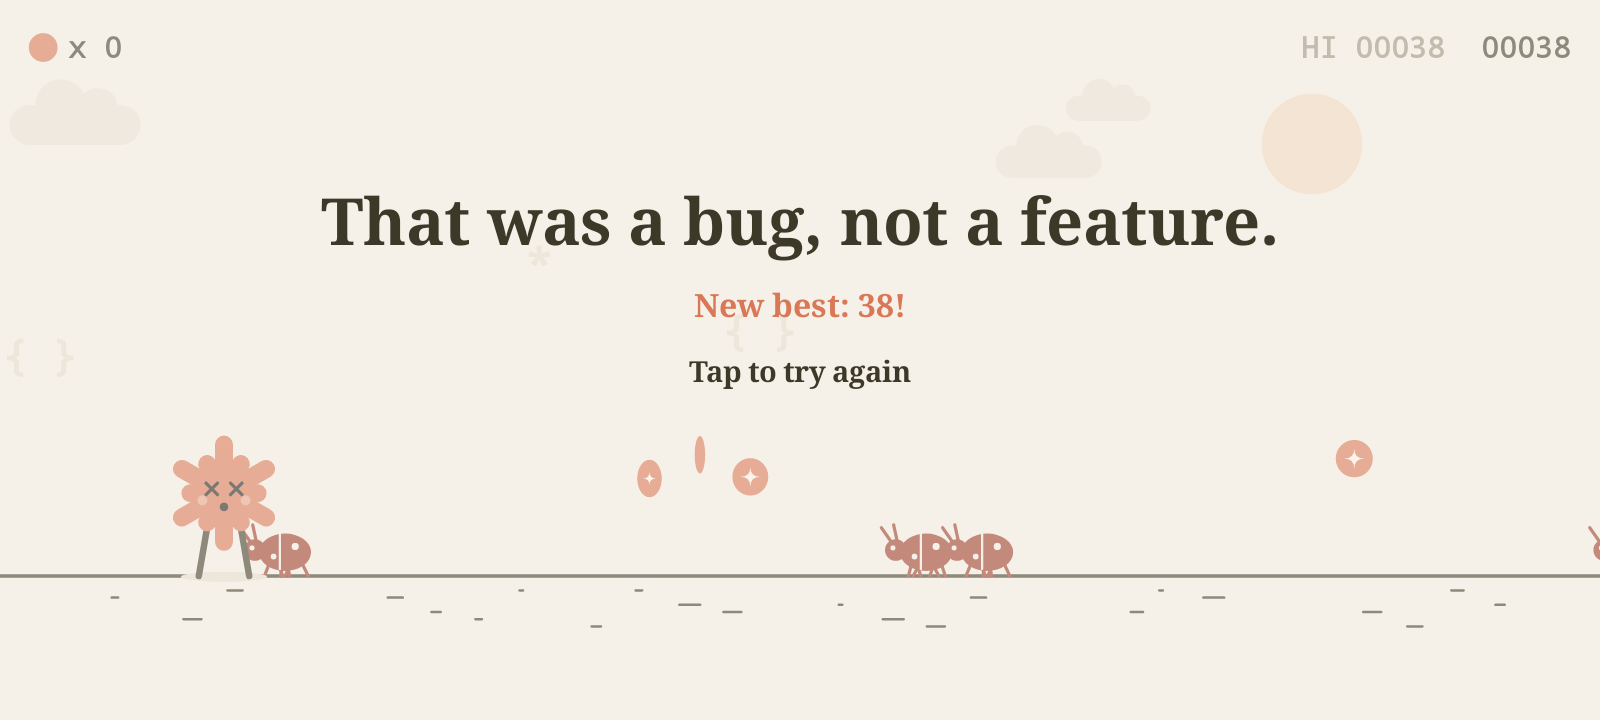
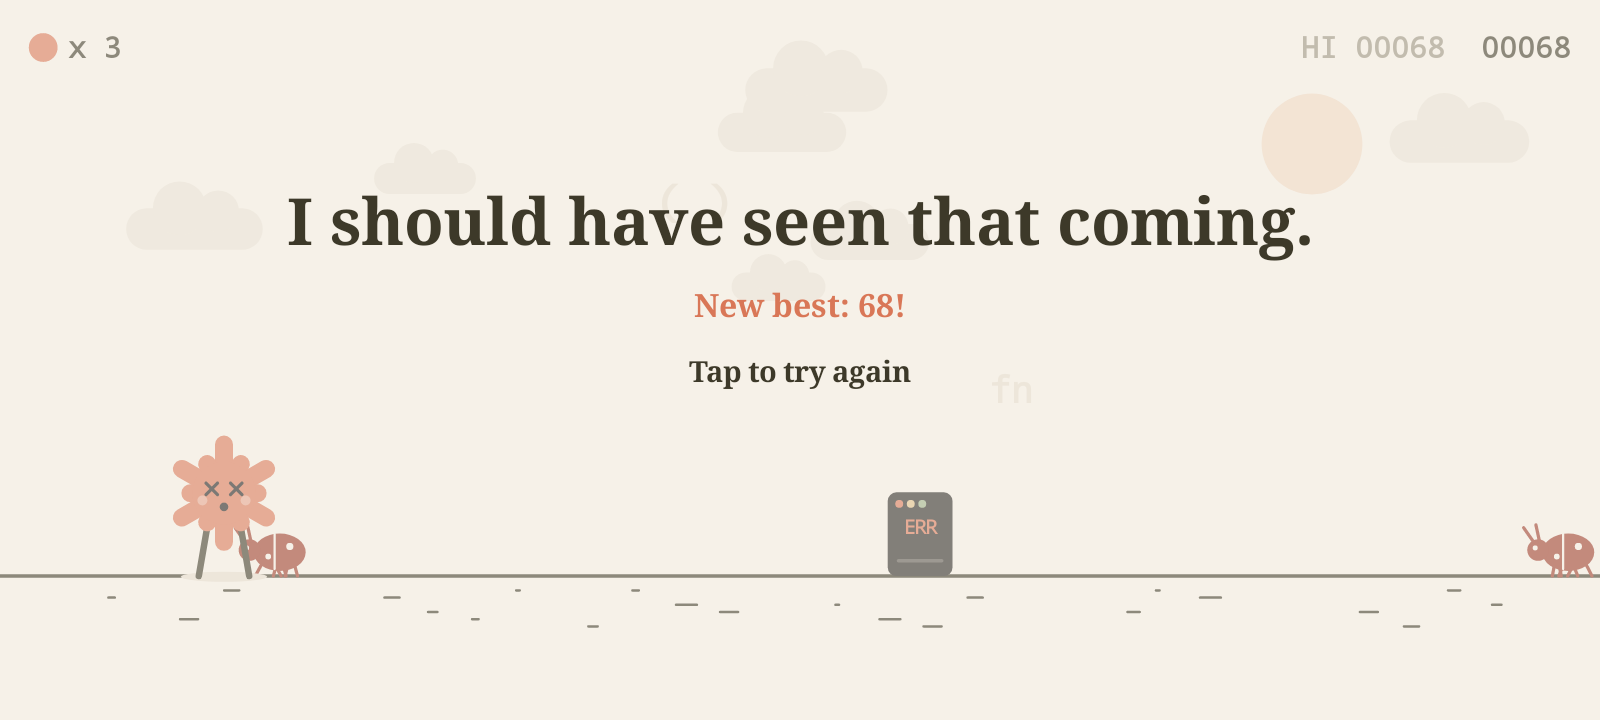
Add 20 more game over lines
Never repeats the previous line, and scales the line down if it would be
wider than the screen.

Claude-Session: https://claude.ai/code/session_01JsEeS23zE7J7M16oot4QqH

diff --git a/app/src/main/java/com/claudegame/run/GameView.java b/app/src/main/java/com/claudegame/run/GameView.java
@@ -45,6 +45,26 @@ public class GameView extends View {
             "Context window exceeded.",
             "I apologize for the confusion.",
             "Hmm, let me think again.",
+            "You're absolutely right.",
+            "I should have seen that coming.",
+            "Let me try a different approach.",
+            "Error: unexpected bug ahead.",
+            "That didn't go as planned.",
+            "I need a moment to reflect.",
+            "Good catch. That was a bug.",
+            "Rate limited. Please wait.",
+            "My reasoning had a flaw.",
+            "Retrying with more care...",
+            "I'll admit, I didn't see that.",
+            "Stack trace: one small bug.",
+            "Let me step back and rethink.",
+            "Out of tokens, out of luck.",
+            "That was not helpful of me.",
+            "I may have hallucinated a path.",
+            "Ran into an edge case.",
+            "Thanks for your patience.",
+            "Should have read the docs.",
+            "Exception thrown. By me.",
     };
 
     private enum State { READY, RUNNING, PAUSED, OVER }
@@ -420,7 +440,10 @@ public class GameView extends View {
         state = State.OVER;
         overTime = 0;
         jumpHeld = duckHeld = false;
-        oopsLine = OOPS[rnd.nextInt(OOPS.length)];
+        String prev = oopsLine;
+        do {
+            oopsLine = OOPS[rnd.nextInt(OOPS.length)];
+        } while (oopsLine.equals(prev)); // never the same line twice in a row
         float[] c = playerCenter();
         for (int i = 0; i < 26; i++) {
             Particle q = new Particle();
@@ -935,6 +958,8 @@ public class GameView extends View {
                 overlay(c, bg);
                 title.setColor(fg);
                 title.setTextSize(9 * u);
+                float lineW = title.measureText(oopsLine);
+                if (lineW > W * 0.9f) title.setTextSize(9 * u * W * 0.9f / lineW); // fit narrow screens
                 c.drawText(oopsLine, W / 2, 34 * u, title);
                 title.setTextSize(4.5f * u);
                 title.setColor(ORANGE);
